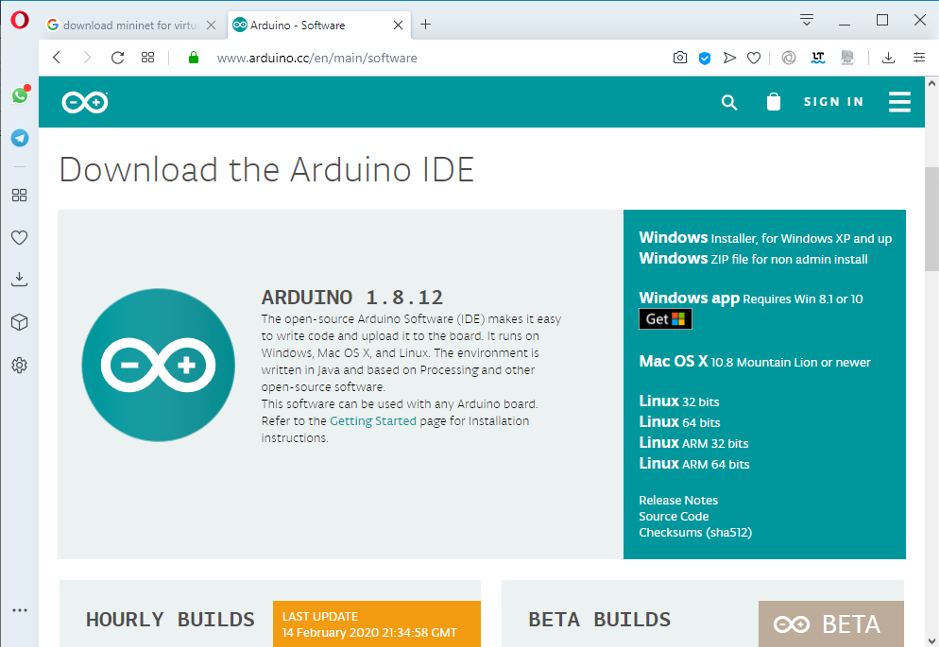
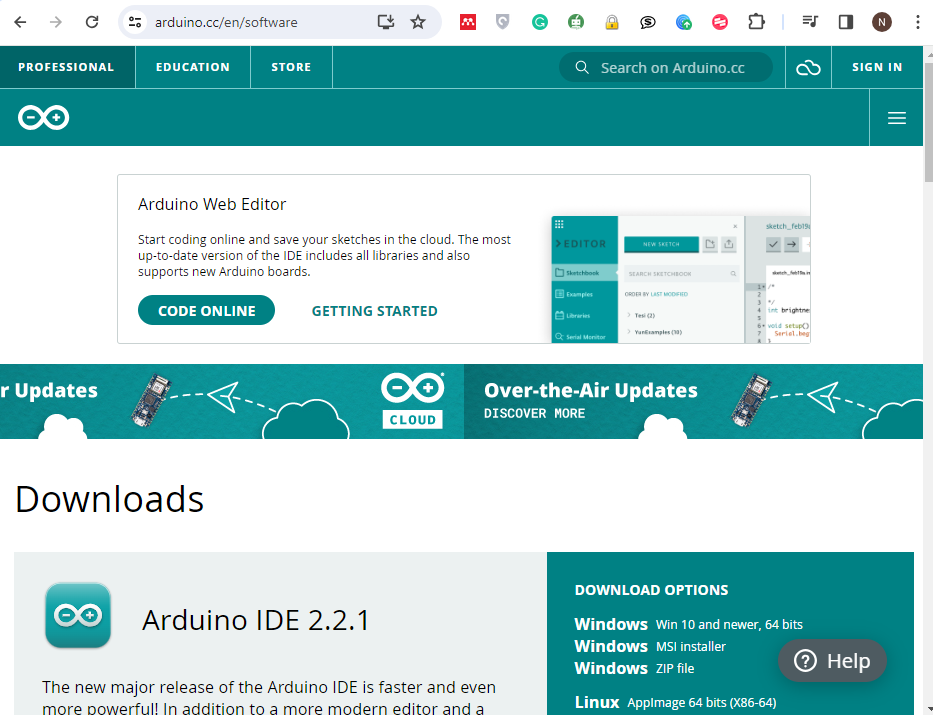
edit image with latest version Arduino IDE

diff --git a/01/01.installasi-dan-konfigurasi.md b/01/01.installasi-dan-konfigurasi.md
@@ -16,7 +16,16 @@
 
 ## Langkah Praktikum
 
-+ Install Arduino IDE, download dari link https://www.arduino.cc/download_handler.php?f=/arduino-1.8.12-windows.exe.
+### Arduino IDE 2
+Para Maker, siswa, dan profesional telah menggunakan Arduino IDE klasik (Integrated Development Environment) sejak Arduino 
+pertama kali diluncurkan.
+Arduino IDE 2 adalah peningkatan dari IDE klasik, dengan kinerja yang lebih baik, antarmuka pengguna yang diperbarui, 
+dan banyak fitur baru, seperti `autocompletion`, debugger bawaan, dan sinkronisasi sketsa dengan Arduino Cloud.
+
+Arduino IDE 2 adalah editor serbaguna dengan banyak fitur. Kita dapat menginstal `library` secara langsung, menyinkronkan sketsa 
+dengan Arduino Cloud, melakukan debugging sketsa, dan banyak lagi.
+
++ Install Arduino IDE, download dari link https://www.arduino.cc/en/software.
   ![Download arduino ide](images/ide.png)
 + Buka aplikasi arduino IDE
 + Buka menu File > Preferences.
@@ -28,20 +37,11 @@
   Community" akan nampak pada daftar di bawahnya, pilih dan klik tombol Install di sebelah kanan bawah.
   ![Board Manager](images/ide4.png)
 
-  > Tuliskan pada pencarian `esp8266`
-  Klik tombol install, jika gagal turunkan versinya dari 2.6.3 ke 2.6.1. Yang terakhir ketika modul ini dibuat adalah
-  > versi 2.7.3, tetapi bukan untuk NodeMCU atau ESP8266 yang digunakan praktikum
-
-  ![Board Manager](images/ide5.png)
-
-  Proses installasi ditunjukkan progress bar seperti pada gambar di bawahi ini
-
-  ![Board Manager](images/ide6.png)
-
-+ Buka menu dan pilih Tools > Board Manager > NodeMCU 1.0 (ESP-12E Module)
-  ![Board Manager](images/ide7.png)
-  Ketika proses installasi telah selesai dan telah memilih board, seharusnya akan tampil `NodeMCU 1.0 (ESP-12E Module)`
-  ![Board Manager](images/ide8.png)
+  > Ketika board `NodeMCU 1.0 (ESP-12E Module)` belum tersedia, silakan pilih `Boards Manager` untuk melakukan installasi
+  > jenis board yang akan digunakan.
+  > Tuliskan pada pencarian `esp8266` 
+  > Klik tombol install, jika gagal turunkan versinya. Jika proses installasi telah selesai harusnya board `NodeMCU 1.0 (ESP-12E Module)`
+  > akan muncul.
 
 + Sekarang masukkan kabel data USB dari NodeMCU ke Laptop, kemudian cek terlebih dahulu di Control Panel > Device
   Manager. Gambar di bawah menunjukkan bahwa interface antara NodeMCU dan Laptop Windows 10 telah terhubung melalui
@@ -52,9 +52,9 @@
   >
   > Ketika menggunakan sistem operasi Mac OS akan terdeteksi di `/dev/tty.SLAB_USBtoUART`, bukan *
   */dev/tty.Bluetooth-Incoming-Port**
-+ Buka aplikasi Arduino IDE, pilih menu Tools > Board, yang semula defaultnya mungkin “Board: Arduino / Genuino Uno”
++ Buka aplikasi Arduino IDE, pilih menu Tools > Board > esp8266, yang semula defaultnya mungkin “Board: Arduino / Genuino Uno”
   menjadi “NodeMCU 1.0 (ESP-12E Module)”
-  ![Modul](images/ide10.png)
+  ![Modul](images/ide4.png)
 
   > Board NodeMCU adalah board yang saat ini, NodeMCU 1.0 (ESP-12E Module) aktif
 
